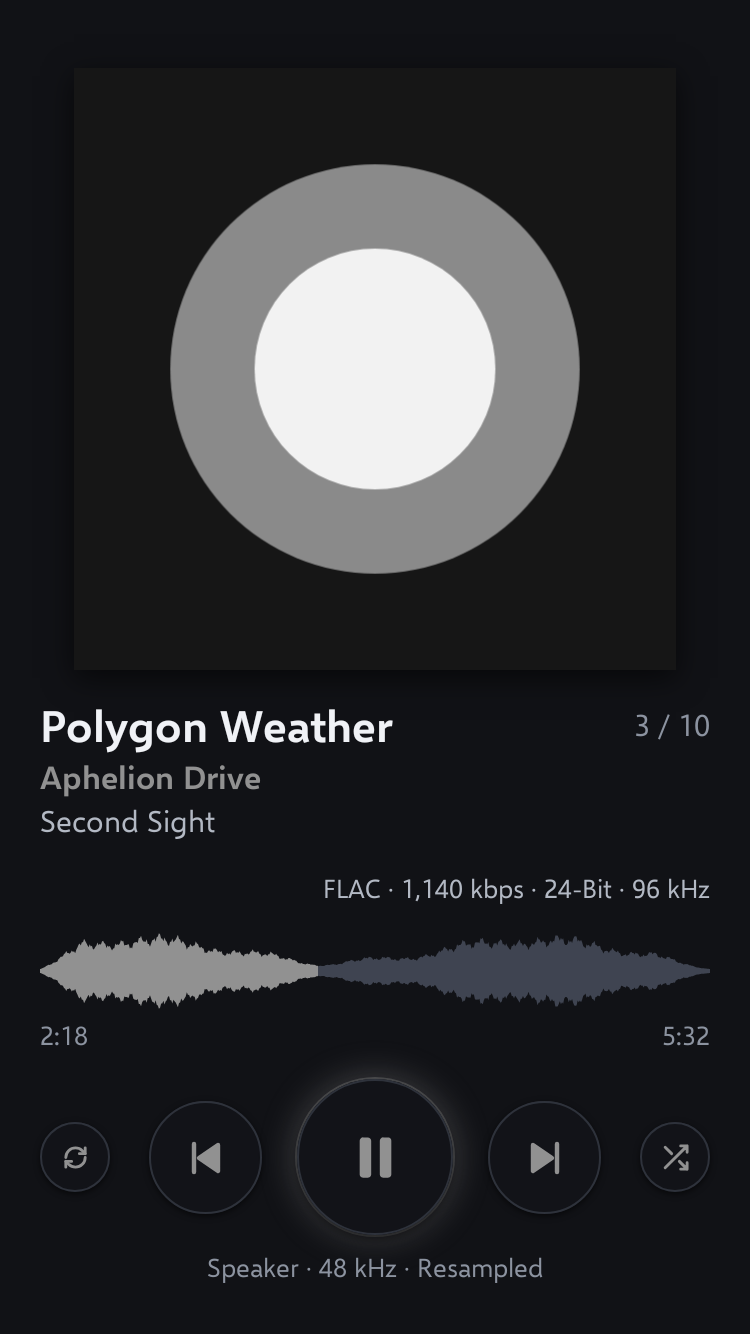
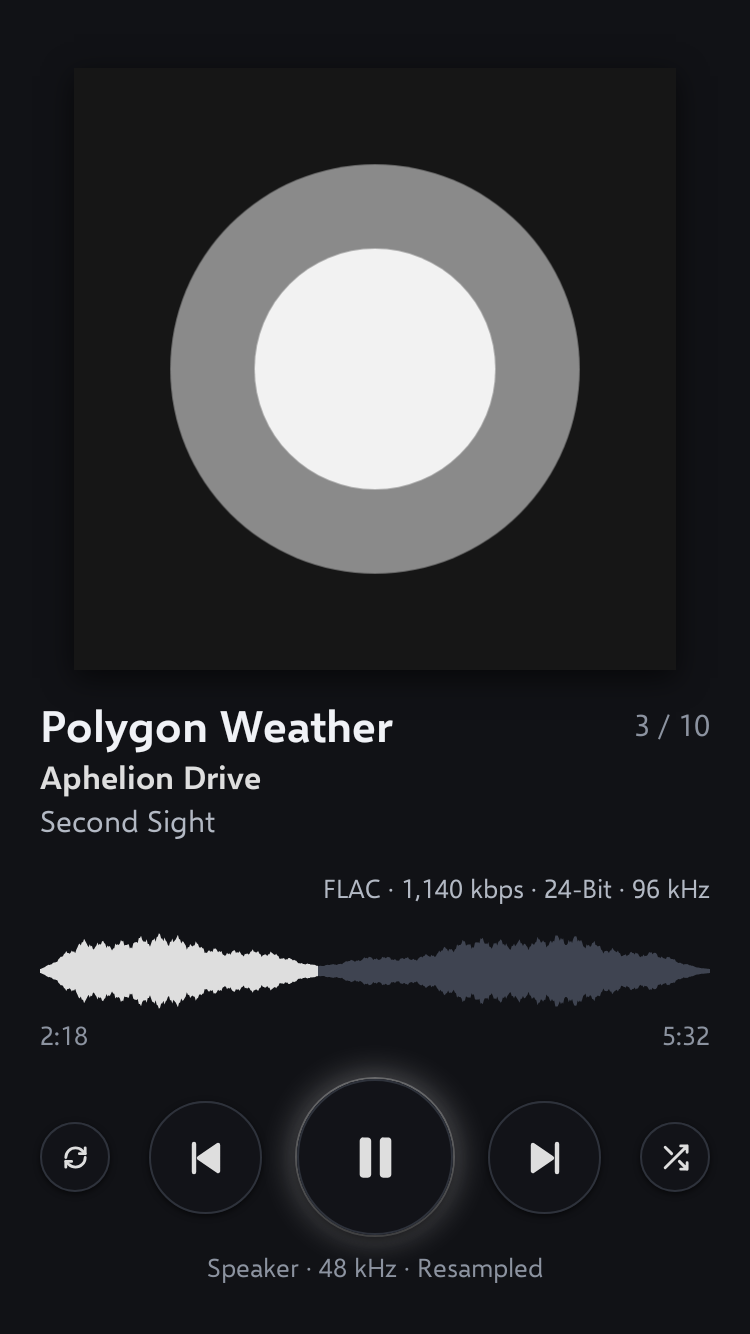
Cover colour: a black and white cover's grey is brighter on Dark
The user's call ("Brighter on Dark"). New token
nowPlaying.coverAccent.greyOnDark (0.9 OKLab lightness, about #E0E0E0),
used for the grey on Dark whatever the cover's lightness; Light is
fitted as before. Three accent tests; 2 Dark pictures re-recorded.
Spec 5, progress and HANDOFF follow.

diff --git a/core/src/test/kotlin/com/mpaulrenlund/audiofool/core/art/CoverColorTest.kt b/core/src/test/kotlin/com/mpaulrenlund/audiofool/core/art/CoverColorTest.kt
@@ -147,6 +147,25 @@ class CoverColorTest {
         assertHue(PALE_PINK, accent)
     }
 
+    /** A black and white cover's grey on Dark (2026-11-11, the user's call: "Brighter on Dark"). */
+    @Test fun on_dark_a_grey_is_the_grey_lightness_whatever_the_cover() {
+        for (cover in listOf(0x000000, 0x404040, 0xFFFFFF)) {
+            val grey = CoverColor.main(picture(cover to 100))!!
+            val accent = CoverColor.accent(grey, DARK_PLAYBACK, dark = true, RANGE, greyOnDark = GREY_ON_DARK)
+            assertEquals(GREY_ON_DARK, CoverColor.lightness(accent), 0.005, "#%06X".format(cover))
+            assertTrue(CoverColor.chroma(accent) < 0.002)
+        }
+    }
+
+    @Test fun on_light_a_grey_is_fitted_as_a_colour_is() {
+        val grey = CoverColor.main(picture(0xFFFFFF to 100))!!
+        val accent = CoverColor.accent(grey, LIGHT_PLAYBACK, dark = false, RANGE, greyOnDark = GREY_ON_DARK)
+        assertEquals(lightAnchor, CoverColor.lightness(accent), 0.01)
+    }
+
+    @Test fun the_grey_lightness_leaves_colours_alone() =
+        assertEquals(onDark(RED), CoverColor.accent(opaque(RED), DARK_PLAYBACK, dark = true, RANGE, greyOnDark = GREY_ON_DARK))
+
     /** Every sixth step of each channel: 216 colours, the greys left out. */
     @Test fun any_colour_lands_in_the_band_opaque_with_its_hue() {
         val steps = (0..255 step 51).toList()
@@ -172,6 +191,9 @@ class CoverColorTest {
 
         /** mobile-tokens.json: nowPlaying.coverAccent.lightnessRange. */
         const val RANGE = 0.15
+
+        /** mobile-tokens.json: nowPlaying.coverAccent.greyOnDark. */
+        const val GREY_ON_DARK = 0.9
 
         const val RED = 0xC0392B
         const val SKY = 0x4A90D9

diff --git a/core/src/main/kotlin/com/mpaulrenlund/audiofool/core/art/CoverColor.kt b/core/src/main/kotlin/com/mpaulrenlund/audiofool/core/art/CoverColor.kt
@@ -47,6 +47,9 @@ object CoverColor {
      */
     const val MIN_SHARE = 0.005
 
+    /** A [main] with less chroma than this is the grey of a black and white cover: a colour has at least [GREY_BELOW_DARK]. */
+    const val NEUTRAL_BELOW = 0.01
+
     /** Hues are counted in slices of 10 degrees; the winner is the best three neighbours. */
     private const val SLICES = 36
 
@@ -109,9 +112,15 @@ object CoverColor {
      * so a deep red cover gives a red, not a greyish pink; made darker it keeps
      * its chroma, so a pastel stays a colour. Where the screen can't show that much
      * chroma at that lightness, it gets as much as there is. Opaque 0xAARRGGBB.
+     *
+     * A grey ([main] of a black and white cover) on Dark is [greyOnDark] light, when
+     * given, whatever the cover's lightness: at the band's lightness it read quieter
+     * than any colour (2026-11-11, the user's call: "Brighter on Dark"). On Light it
+     * is fitted as any colour is.
      */
-    fun accent(main: Int, playback: Int, dark: Boolean, range: Double): Int {
+    fun accent(main: Int, playback: Int, dark: Boolean, range: Double, greyOnDark: Double? = null): Int {
         val from = Lab.of(main)
+        if (dark && greyOnDark != null && from.chroma < NEUTRAL_BELOW) return Lab(greyOnDark, 0.0, 0.0).toArgb()
         val anchor = Lab.of(playback).l
         val lightness = if (dark) from.l.coerceIn(anchor, anchor + range) else from.l.coerceIn(anchor - range, anchor)
         val chroma = if (lightness > from.l && from.l > 0) from.chroma * lightness / from.l else from.chroma

diff --git a/app/src/main/java/com/mpaulrenlund/audiofool/theme/AppTheme.kt b/app/src/main/java/com/mpaulrenlund/audiofool/theme/AppTheme.kt
@@ -52,11 +52,15 @@ class AppTheme(val isDark: Boolean, val tokens: AppTokens) {
      * `nowPlaying.coverAccent.lightnessRange` of the colour it [standsInFor], so
      * it reads as well as the theme's own. That is `accent.playback`, for the
      * seekbar, Play/Pause, the lit Repeat and Shuffle and, since 2026-11-11, the
-     * artist's name (fitted to `accent.blue` until then). Worked out from the theme each time,
-     * as any colour is: a theme switch gives the other theme's.
+     * artist's name (fitted to `accent.blue` until then). A black and white cover's
+     * grey is `nowPlaying.coverAccent.greyOnDark` light on Dark (2026-11-11). Worked
+     * out from the theme each time, as any colour is: a theme switch gives the other theme's.
      */
     fun coverAccent(main: Int, standsInFor: String = "color.accent.playback"): ThemeColor {
-        val argb = CoverColor.accent(main, themeColor(standsInFor).argb, isDark, number("nowPlaying.coverAccent.lightnessRange"))
+        val argb = CoverColor.accent(
+            main, themeColor(standsInFor).argb, isDark, number("nowPlaying.coverAccent.lightnessRange"),
+            greyOnDark = number("nowPlaying.coverAccent.greyOnDark"),
+        )
         return ThemeColor(a = 0xFF, r = (argb shr 16) and 0xFF, g = (argb shr 8) and 0xFF, b = argb and 0xFF)
     }
 

diff --git a/design/android-spec.md b/design/android-spec.md
@@ -161,7 +161,7 @@ The mini player's three buttons take it as Now Playing's do, icons, ring and glo
 
 Nothing else changes: the mini player's title and artist, the now-playing rows, the other buttons and every other screen keep the theme's colours.
 
-- **The cover's main colour** (`core/.../art/CoverColor.main`): the middle square of the cover, as the screen shows it, scaled down to 64 × 64. Pixels with too little colour say nothing (grey, white, off-white; a dark pixel needs less chroma to count than a light one, so a dark brown is brown and a cream is off-white), and nor does black, whatever its tint (below OKLab lightness 0.15: a JPEG's black has a cast, which came out a strong blue). The rest are counted by hue, each by its chroma squared, and the hue with the most wins; the colour is the average of that hue's pixels. So a red logo on a black cover gives red, a blue sky with a small sun gives blue, and a grey cover's faint cast doesn't outweigh the colour in it. A cover less than 0.5% coloured (black and white) is a **grey**, at its pixels' average lightness, fitted to the theme as any colour is (below): a light grey on Dark, a dark grey on Light, so the screen is as monochrome as the cover (2026-11-11, the user's call, "Try a neutral accent"; such a cover kept the theme's colours until then). Only a song with no cover keeps the theme's own. **2026-11-11, the user's call** ("it's defaulting to the default teal/blue colors too often … take any predominant color from the album"): until then black counted by its tint, pixels by their chroma, and a cover needed 2%. Over the desktop's 8,604 covers that took the ones with no colour from 10.2% to 9.0% (those looked at were all black and white) and the black covers with a faint blue cast to their own colour.
+- **The cover's main colour** (`core/.../art/CoverColor.main`): the middle square of the cover, as the screen shows it, scaled down to 64 × 64. Pixels with too little colour say nothing (grey, white, off-white; a dark pixel needs less chroma to count than a light one, so a dark brown is brown and a cream is off-white), and nor does black, whatever its tint (below OKLab lightness 0.15: a JPEG's black has a cast, which came out a strong blue). The rest are counted by hue, each by its chroma squared, and the hue with the most wins; the colour is the average of that hue's pixels. So a red logo on a black cover gives red, a blue sky with a small sun gives blue, and a grey cover's faint cast doesn't outweigh the colour in it. A cover less than 0.5% coloured (black and white) is a **grey**, at its pixels' average lightness, on Light fitted to the theme as any colour is (below), a dark grey; on Dark always `nowPlaying.coverAccent.greyOnDark` light (0.9, about #E0E0E0, whatever the cover's lightness; 2026-11-11, the user's call, "Brighter on Dark": at the band's lightness it read quieter than any colour). So the screen is as monochrome as the cover (2026-11-11, the user's call, "Try a neutral accent"; such a cover kept the theme's colours until then). Only a song with no cover keeps the theme's own. **2026-11-11, the user's call** ("it's defaulting to the default teal/blue colors too often … take any predominant color from the album"): until then black counted by its tint, pixels by their chroma, and a cover needed 2%. Over the desktop's 8,604 covers that took the ones with no colour from 10.2% to 9.0% (those looked at were all black and white) and the black covers with a faint blue cast to their own colour.
 - **Fitted to the theme** (`CoverColor.accent`, `AppTheme.coverAccent`): the same hue, at a lightness within `nowPlaying.coverAccent.lightnessRange` (0.15 of OKLab's 0 to 1) of the theme colour it stands in for, on the side away from the background: that or lighter on Dark, that or darker on Light. So it is never harder to see than the colour the theme was designed with. That colour is `accent.playback`, for the artist's name too (2026-11-11; it was fitted to `accent.blue` until then). Made lighter, the colour keeps its saturation (a deep red cover gives a red, not a greyish pink); made darker, its chroma (a pastel stays a colour). It is worked out from the theme as it is drawn, so a theme switch changes it at once.
 - **The cover stays until the next one is read**, picture and colour: nothing blinks between an album's songs (up to 0.12.0 the art showed the empty placeholder for a moment at every song change), and both change when the new cover appears. A song with no cover shows the placeholder and the theme's colours once that is known.
 

diff --git a/design/progress.md b/design/progress.md
@@ -73,6 +73,14 @@ The user made these while the mockups were designed (October 2026). The spec alr
 
 ## Decisions made for the build
 
+2026-11-11, not released yet: **the grey is brighter on Dark** (the user: "Brighter on Dark", after
+seeing the grey below). New token `nowPlaying.coverAccent.greyOnDark`, 0.9 OKLab lightness (about
+#E0E0E0), used for a black and white cover's grey on Dark whatever the cover's lightness
+(`CoverColor.accent(greyOnDark)`, a grey being a main under `NEUTRAL_BELOW` chroma). **My call:**
+0.9, brighter than any colour gets on Dark (the band tops out at about 0.8) and a step under the
+title's `text.heading`, so the artist's name still reads as apart from the title. Light unchanged.
+2 pictures changed (`now-playing-cover-grey`, Dark).
+
 2026-11-11, not released yet: **a black and white cover gives a grey, not teal or blue** (the
 user chose "Try a neutral accent" after the change below). Spec §5 (*Cover colour*) and §3.
 `CoverColor.main` returns a grey at the cover's average OKLab lightness where it used to return

diff --git a/HANDOFF.md b/HANDOFF.md
@@ -12,6 +12,8 @@ you touch a feature from then.
 - **Read, in order:** `CLAUDE.md`, this file, then in `design/progress.md` the "Decisions made
   for the build" section from the top (0.9.0 down to 0.3.0, the S24's own USB driver) and the
   unticked items in *To test on the S24* / *To test on the M21*.
+- **Since 0.16.0, not released yet (2026-11-11): that grey is `nowPlaying.coverAccent.greyOnDark`
+  (0.9) light on Dark** (the user's call). To change how bright, change the token.
 - **Since 0.16.0, not released yet (2026-11-11): a black and white cover gives a grey**
   (the user's call; spec §5): `CoverColor.main` returns a grey at the cover's average lightness
   instead of null, and `accent` fits it to the theme. `CoverColors.Known.color` is null only
